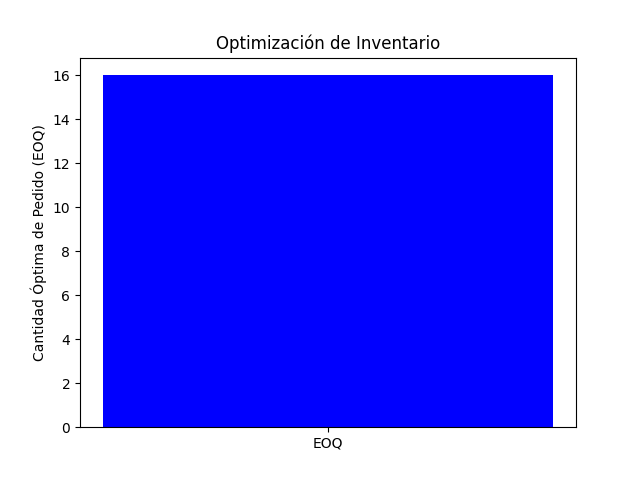
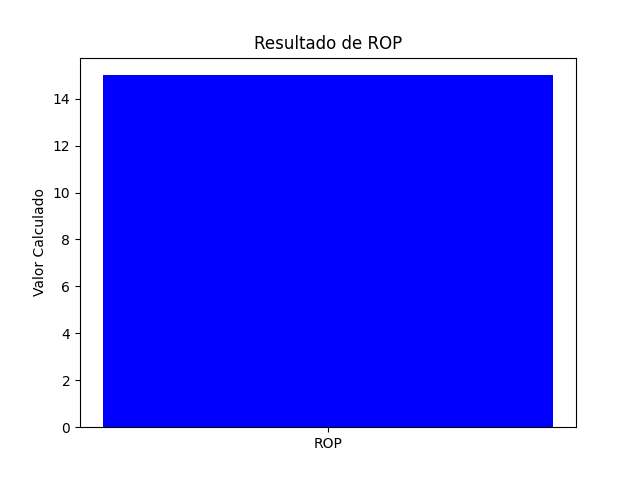
...... inventario changes

diff --git a/app/templates/inventario.html b/app/templates/inventario.html
@@ -5,29 +5,132 @@
     <meta name="viewport" content="width=device-width, initial-scale=1.0">
     <title>Calculadora de Inventario</title>
     <link rel="stylesheet" href="https://stackpath.bootstrapcdn.com/bootstrap/4.5.2/css/bootstrap.min.css">
+    <script>
+        function actualizarFormulario() {
+            var operacion = document.getElementById("operacion").value;
+            document.querySelectorAll(".campo").forEach(campo => campo.style.display = "none");
+
+            if (operacion === "eoq") {
+                document.getElementById("eoq_campos").style.display = "block";
+            } else if (operacion === "rop") {
+                document.getElementById("rop_campos").style.display = "block";
+            } else if (operacion === "stock_seguridad") {
+                document.getElementById("stock_seguridad_campos").style.display = "block";
+            } else if (operacion === "costo_total") {
+                document.getElementById("costo_total_campos").style.display = "block";
+            } else if (operacion === "poq") {
+                document.getElementById("poq_campos").style.display = "block";
+            }
+        }
+    </script>
 </head>
 <body>
     <div class="container text-center mt-5">
         <h2>Calculadora de Inventario</h2>
-        <p>Ingresa los datos para calcular la cantidad óptima de pedido (EOQ).</p>
+        <p>Selecciona el cálculo que deseas realizar.</p>
 
         <form action="/inventario" method="POST">
+            <!-- Selección de operación -->
             <div class="form-group">
-                <label for="demanda_anual"><b>Demanda Anual:</b></label>
-                <input type="number" id="demanda_anual" name="demanda_anual" class="form-control" required>
+                <label for="operacion"><b>Selecciona una operación:</b></label>
+                <select id="operacion" name="operacion" class="form-control" onchange="actualizarFormulario()" required>
+                    <option value="eoq">Cantidad Económica de Pedido (EOQ)</option>
+                    <option value="rop">Punto de Reorden (ROP)</option>
+                    <option value="stock_seguridad">Stock de Seguridad</option>
+                    <option value="costo_total">Costo Total de Inventario</option>
+                    <option value="poq">Cantidad Óptima de Producción (POQ)</option>
+                </select>
             </div>
 
-            <div class="form-group">
-                <label for="costo_pedido"><b>Costo por Pedido:</b></label>
-                <input type="number" id="costo_pedido" name="costo_pedido" class="form-control" required>
+            <!-- EOQ -->
+            <div id="eoq_campos" class="campo">
+                <div class="form-group">
+                    <label for="demanda_anual"><b>Demanda Anual:</b></label>
+                    <input type="number" id="demanda_anual" name="demanda_anual" class="form-control">
+                </div>
+                <div class="form-group">
+                    <label for="costo_pedido"><b>Costo por Pedido:</b></label>
+                    <input type="number" id="costo_pedido" name="costo_pedido" class="form-control">
+                </div>
+                <div class="form-group">
+                    <label for="costo_mantenimiento"><b>Costo de Mantenimiento por Unidad:</b></label>
+                    <input type="number" id="costo_mantenimiento" name="costo_mantenimiento" class="form-control">
+                </div>
             </div>
 
-            <div class="form-group">
-                <label for="costo_mantenimiento"><b>Costo de Mantenimiento por Unidad:</b></label>
-                <input type="number" id="costo_mantenimiento" name="costo_mantenimiento" class="form-control" required>
+            <!-- ROP -->
+            <div id="rop_campos" class="campo" style="display:none;">
+                <div class="form-group">
+                    <label for="demanda_diaria"><b>Demanda Diaria:</b></label>
+                    <input type="number" id="demanda_diaria" name="demanda_diaria" class="form-control">
+                </div>
+                <div class="form-group">
+                    <label for="tiempo_entrega"><b>Tiempo de Entrega (días):</b></label>
+                    <input type="number" id="tiempo_entrega" name="tiempo_entrega" class="form-control">
+                </div>
             </div>
 
-            <button type="submit" class="btn btn-primary">Calcular EOQ</button>
+            <!-- Stock de Seguridad -->
+            <div id="stock_seguridad_campos" class="campo" style="display:none;">
+                <div class="form-group">
+                    <label for="nivel_servicio"><b>Nivel de Servicio (%):</b></label>
+                    <input type="number" id="nivel_servicio" name="nivel_servicio" class="form-control">
+                </div>
+                <div class="form-group">
+                    <label for="desviacion_demanda"><b>Desviación Estándar de la Demanda:</b></label>
+                    <input type="number" id="desviacion_demanda" name="desviacion_demanda" class="form-control">
+                </div>
+                <div class="form-group">
+                    <label for="tiempo_entrega"><b>Tiempo de Entrega (días):</b></label>
+                    <input type="number" id="tiempo_entrega" name="tiempo_entrega" class="form-control">
+                </div>
+            </div>
+
+            <!-- Costo Total -->
+            <div id="costo_total_campos" class="campo" style="display:none;">
+                <div class="form-group">
+                    <label for="demanda_anual"><b>Demanda Anual:</b></label>
+                    <input type="number" id="demanda_anual" name="demanda_anual" class="form-control">
+                </div>
+                <div class="form-group">
+                    <label for="costo_pedido"><b>Costo por Pedido:</b></label>
+                    <input type="number" id="costo_pedido" name="costo_pedido" class="form-control">
+                </div>
+                <div class="form-group">
+                    <label for="costo_mantenimiento"><b>Costo de Mantenimiento:</b></label>
+                    <input type="number" id="costo_mantenimiento" name="costo_mantenimiento" class="form-control">
+                </div>
+                <div class="form-group">
+                    <label for="eoq"><b>EOQ Calculado:</b></label>
+                    <input type="number" id="eoq" name="eoq" class="form-control">
+                </div>
+            </div>
+
+            <!-- POQ -->
+            <div id="poq_campos" class="campo" style="display:none;">
+                <div class="form-group">
+                    <label for="demanda_anual"><b>Demanda Anual:</b></label>
+                    <input type="number" id="demanda_anual" name="demanda_anual" class="form-control">
+                </div>
+                <div class="form-group">
+                    <label for="costo_pedido"><b>Costo por Pedido:</b></label>
+                    <input type="number" id="costo_pedido" name="costo_pedido" class="form-control">
+                </div>
+                <div class="form-group">
+                    <label for="costo_mantenimiento"><b>Costo de Mantenimiento:</b></label>
+                    <input type="number" id="costo_mantenimiento" name="costo_mantenimiento" class="form-control">
+                </div>
+                <div class="form-group">
+                    <label for="tasa_produccion"><b>Tasa de Producción:</b></label>
+                    <input type="number" id="tasa_produccion" name="tasa_produccion" class="form-control">
+                </div>
+                <div class="form-group">
+                    <label for="tasa_demanda"><b>Tasa de Demanda:</b></label>
+                    <input type="number" id="tasa_demanda" name="tasa_demanda" class="form-control">
+                </div>
+            </div>
+
+            <button type="submit" class="btn btn-primary mt-3">Calcular</button>
         </form>
     </div>
 </body>

diff --git a/app/templates/resultado_inventario.html b/app/templates/resultado_inventario.html
@@ -12,8 +12,22 @@
         
         {% if 'eoq' in resultado %}
             <p><b>Cantidad Óptima de Pedido (EOQ):</b> {{ resultado['eoq'] }}</p>
+        
+        {% elif 'rop' in resultado %}
+            <p><b>Punto de Reorden (ROP):</b> {{ resultado['rop'] }}</p>
+        
+        {% elif 'stock_seguridad' in resultado %}
+            <p><b>Stock de Seguridad:</b> {{ resultado['stock_seguridad'] }}</p>
+        
+        {% elif 'costo_total' in resultado %}
+            <p><b>Costo Total de Inventario:</b> {{ resultado['costo_total'] }}</p>
+        
+        {% elif 'poq' in resultado %}
+            <p><b>Cantidad Óptima de Producción (POQ):</b> {{ resultado['poq'] }}</p>
+        
         {% elif 'error' in resultado %}
             <p class="text-danger"><b>Error:</b> {{ resultado['error'] }}</p>
+        
         {% endif %}
         
         <h3 class="mt-4">Visualización del Inventario</h3>

diff --git a/inventario/inventario_api.py b/inventario/inventario_api.py
@@ -2,7 +2,13 @@ from flask import Blueprint, request, jsonify, render_template
 import os
 import matplotlib.pyplot as plt
 from datetime import datetime
-from inventario.inventario_solver import calcular_eoq
+from inventario.inventario_solver import (
+    calcular_eoq,
+    calcular_rop,
+    calcular_stock_seguridad,
+    calcular_costo_total,
+    calcular_poq
+)
 
 inventario_bp = Blueprint('inventario', __name__)
 
@@ -11,21 +17,53 @@ def inventario():
     if request.method == 'POST':
         try:
             # 📌 Recibir datos del formulario
-            demanda_anual = float(request.form.get('demanda_anual'))
-            costo_pedido = float(request.form.get('costo_pedido'))
-            costo_mantenimiento = float(request.form.get('costo_mantenimiento'))
+            operacion = request.form.get('operacion')
 
-            # 📌 Calcular EOQ
-            resultado = calcular_eoq(demanda_anual, costo_pedido, costo_mantenimiento)
+            # 📌 Ejecutar la operación seleccionada
+            resultado = {}
+            if operacion == "eoq":
+                demanda_anual = float(request.form.get('demanda_anual'))
+                costo_pedido = float(request.form.get('costo_pedido'))
+                costo_mantenimiento = float(request.form.get('costo_mantenimiento'))
+                resultado = calcular_eoq(demanda_anual, costo_pedido, costo_mantenimiento)
+
+            elif operacion == "rop":
+                demanda_diaria = float(request.form.get('demanda_diaria'))
+                tiempo_entrega = float(request.form.get('tiempo_entrega'))
+                resultado = calcular_rop(demanda_diaria, tiempo_entrega)
+
+            elif operacion == "stock_seguridad":
+                nivel_servicio = float(request.form.get('nivel_servicio'))
+                desviacion_demanda = float(request.form.get('desviacion_demanda'))
+                tiempo_entrega = float(request.form.get('tiempo_entrega'))
+                resultado = calcular_stock_seguridad(nivel_servicio, desviacion_demanda, tiempo_entrega)
+
+            elif operacion == "costo_total":
+                demanda_anual = float(request.form.get('demanda_anual'))
+                costo_pedido = float(request.form.get('costo_pedido'))
+                costo_mantenimiento = float(request.form.get('costo_mantenimiento'))
+                eoq = float(request.form.get('eoq'))
+                resultado = calcular_costo_total(demanda_anual, costo_pedido, costo_mantenimiento, eoq)
+
+            elif operacion == "poq":
+                demanda_anual = float(request.form.get('demanda_anual'))
+                costo_pedido = float(request.form.get('costo_pedido'))
+                costo_mantenimiento = float(request.form.get('costo_mantenimiento'))
+                tasa_produccion = float(request.form.get('tasa_produccion'))
+                tasa_demanda = float(request.form.get('tasa_demanda'))
+                resultado = calcular_poq(demanda_anual, costo_pedido, costo_mantenimiento, tasa_produccion, tasa_demanda)
+
+            else:
+                return jsonify({"error": "Operación no válida"}), 400
 
             # 📌 Generar y guardar gráfico en app/static/graphs/
             img_path = os.path.join("app", "static", "graphs", "inventario.png")
             os.makedirs(os.path.dirname(img_path), exist_ok=True)
 
             fig, ax = plt.subplots()
-            ax.bar(["EOQ"], [resultado.get("eoq", 0)], color='blue')
-            ax.set_ylabel("Cantidad Óptima de Pedido (EOQ)")
-            ax.set_title("Optimización de Inventario")
+            ax.bar([operacion.upper()], [list(resultado.values())[0]], color='blue')
+            ax.set_ylabel("Valor Calculado")
+            ax.set_title(f"Resultado de {operacion.upper()}")
 
             plt.savefig(img_path)
             plt.close()

diff --git a/inventario/inventario_solver.py b/inventario/inventario_solver.py
@@ -17,7 +17,77 @@ def calcular_eoq(demanda_anual, costo_pedido, costo_mantenimiento):
     except Exception as e:
         return {"error": str(e)}
 
-# ✅ Prueba rápida
+def calcular_rop(demanda_diaria, tiempo_entrega):
+    """
+    Calcula el Punto de Reorden (ROP).
+    
+    :param demanda_diaria: Demanda promedio diaria
+    :param tiempo_entrega: Tiempo de entrega en días
+    :return: ROP (Punto de Reorden)
+    """
+    try:
+        rop = demanda_diaria * tiempo_entrega
+        return {"rop": round(rop, 2)}
+    except Exception as e:
+        return {"error": str(e)}
+
+def calcular_stock_seguridad(nivel_servicio, desviacion_demanda, tiempo_entrega):
+    """
+    Calcula el Stock de Seguridad basado en nivel de servicio y variabilidad de la demanda.
+    
+    :param nivel_servicio: Factor Z de nivel de servicio (ej. 1.65 para 95%)
+    :param desviacion_demanda: Desviación estándar de la demanda
+    :param tiempo_entrega: Tiempo de entrega en días
+    :return: Stock de Seguridad
+    """
+    try:
+        stock_seguridad = nivel_servicio * desviacion_demanda * math.sqrt(tiempo_entrega)
+        return {"stock_seguridad": round(stock_seguridad, 2)}
+    except Exception as e:
+        return {"error": str(e)}
+
+def calcular_costo_total(demanda_anual, costo_pedido, costo_mantenimiento, eoq):
+    """
+    Calcula el Costo Total de Inventario (Costo de pedidos + Costo de mantenimiento).
+    
+    :param demanda_anual: Demanda anual del producto
+    :param costo_pedido: Costo de realizar un pedido
+    :param costo_mantenimiento: Costo de mantenimiento por unidad por año
+    :param eoq: Cantidad Económica de Pedido (EOQ)
+    :return: Costo Total de Inventario
+    """
+    try:
+        num_pedidos = demanda_anual / eoq
+        costo_pedidos = num_pedidos * costo_pedido
+        costo_mantenimiento_total = (eoq / 2) * costo_mantenimiento
+        costo_total = costo_pedidos + costo_mantenimiento_total
+        return {"costo_total": round(costo_total, 2)}
+    except Exception as e:
+        return {"error": str(e)}
+
+def calcular_poq(demanda_anual, costo_pedido, costo_mantenimiento, tasa_produccion, tasa_demanda):
+    """
+    Calcula la Cantidad Óptima de Producción (POQ).
+    
+    :param demanda_anual: Demanda anual del producto
+    :param costo_pedido: Costo de realizar un pedido
+    :param costo_mantenimiento: Costo de mantenimiento por unidad por año
+    :param tasa_produccion: Tasa de producción diaria
+    :param tasa_demanda: Tasa de demanda diaria
+    :return: POQ (Cantidad Óptima de Producción)
+    """
+    try:
+        poq = math.sqrt((2 * demanda_anual * costo_pedido) / (costo_mantenimiento * (1 - (tasa_demanda / tasa_produccion))))
+        return {"poq": round(poq, 2)}
+    except ZeroDivisionError:
+        return {"error": "La tasa de producción debe ser mayor que la tasa de demanda"}
+    except Exception as e:
+        return {"error": str(e)}
+
+# ✅ Pruebas rápidas
 if __name__ == "__main__":
-    resultado = calcular_eoq(demanda_anual=5000, costo_pedido=100, costo_mantenimiento=5)
-    print("🔹 Resultado de prueba:", resultado)
+    print("🔹 Prueba de EOQ:", calcular_eoq(demanda_anual=5000, costo_pedido=100, costo_mantenimiento=5))
+    print("🔹 Prueba de ROP:", calcular_rop(demanda_diaria=50, tiempo_entrega=5))
+    print("🔹 Prueba de Stock de Seguridad:", calcular_stock_seguridad(nivel_servicio=1.65, desviacion_demanda=20, tiempo_entrega=5))
+    print("🔹 Prueba de Costo Total:", calcular_costo_total(demanda_anual=5000, costo_pedido=100, costo_mantenimiento=5, eoq=200))
+    print("🔹 Prueba de POQ:", calcular_poq(demanda_anual=5000, costo_pedido=100, costo_mantenimiento=5, tasa_produccion=100, tasa_demanda=50))
